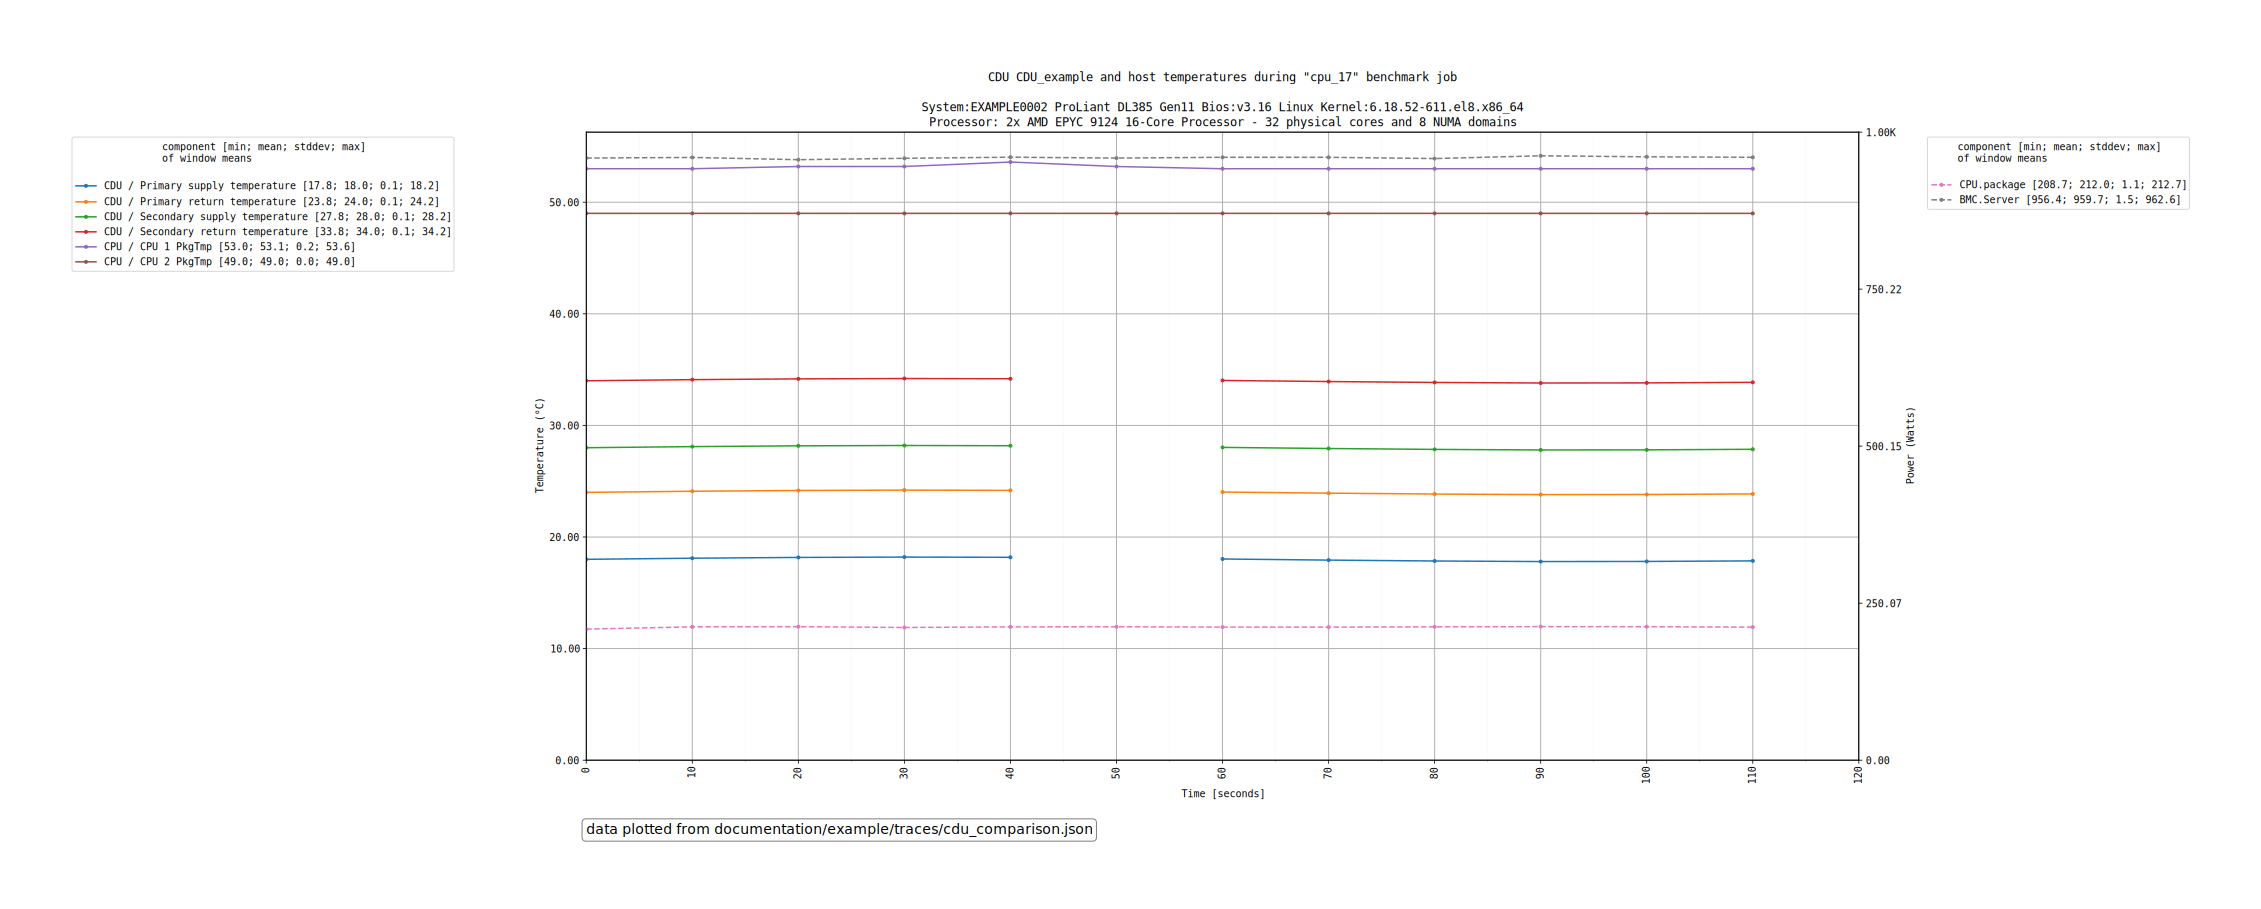
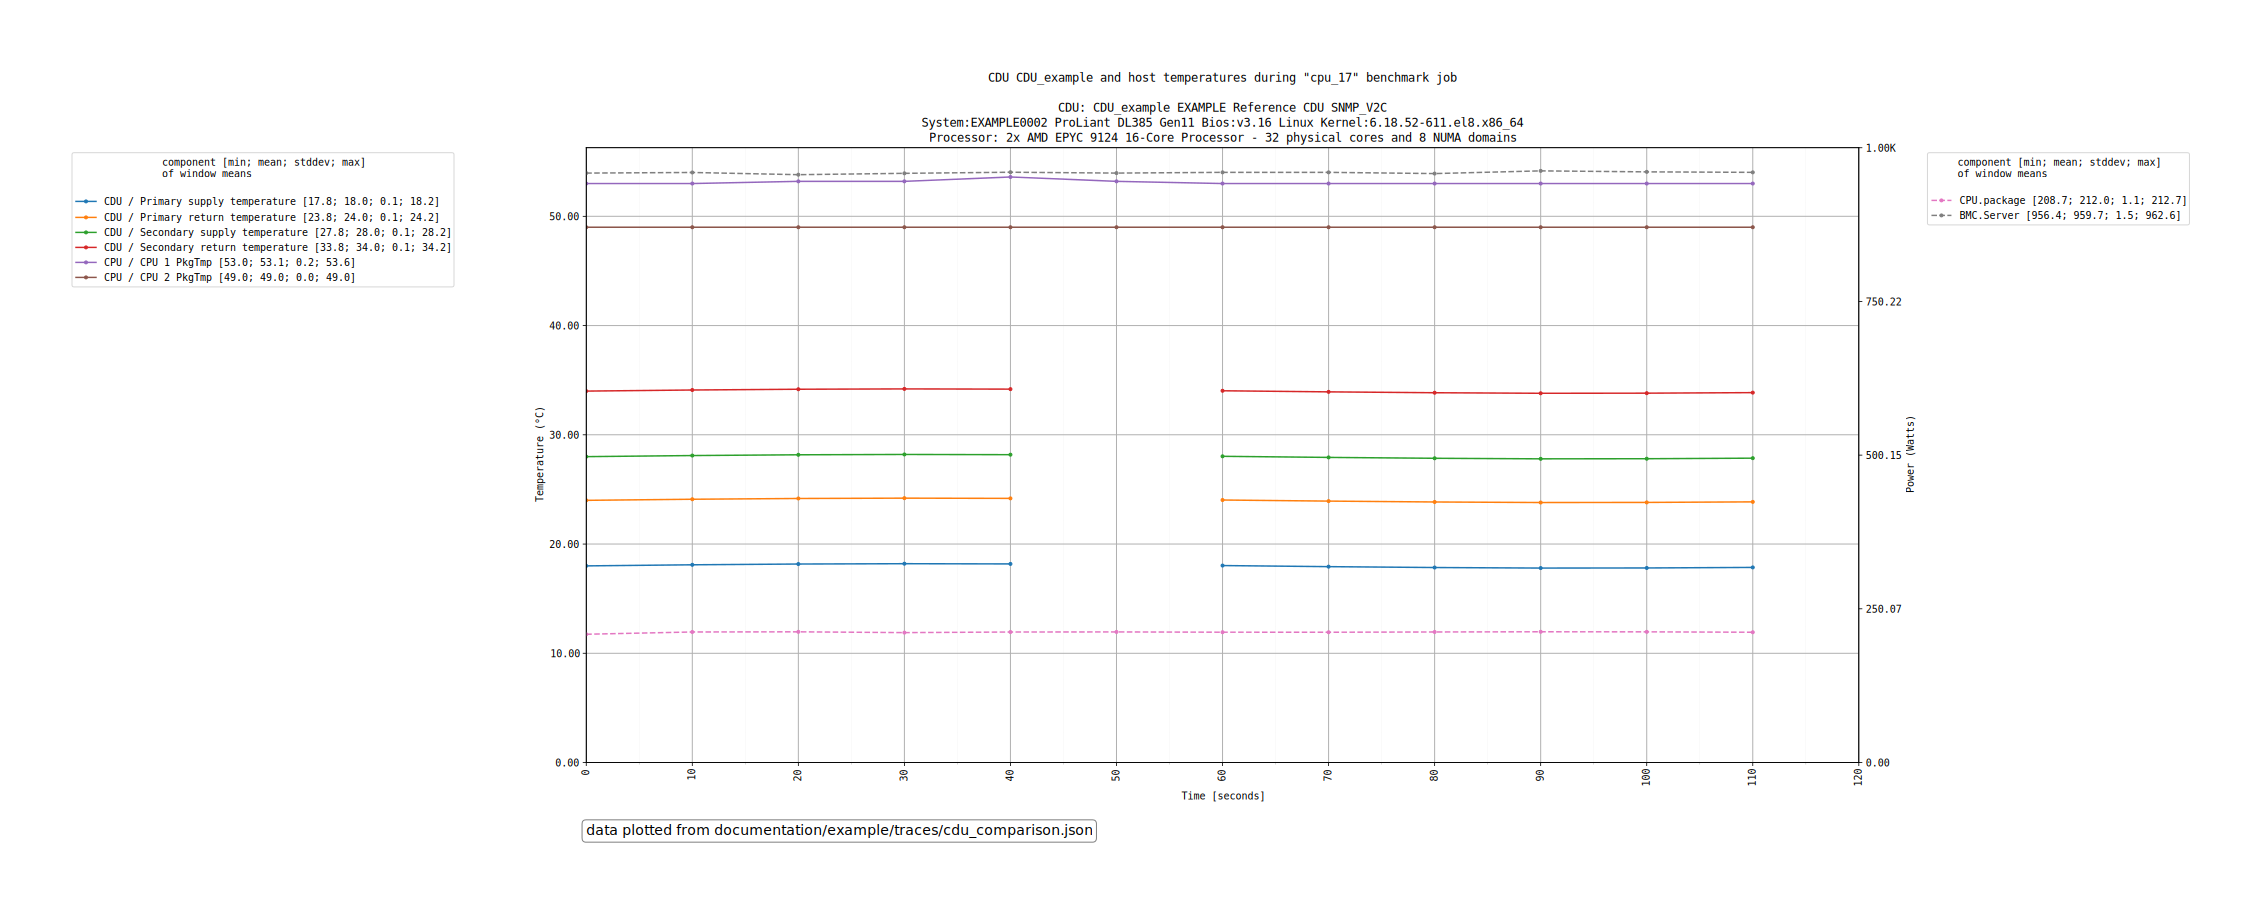
hwgraph: name the CDUs of the servers in the headers of the graphs
The graphs of a run monitoring CDUs do not tell which ones: the
results.json keeps their section, url, vendor, model and protocol in
hardware.cdu, but no header shows them.

A line per CDU gives its section, vendor, model and protocol, then its
firmware and its serial number when known, and its host between
parentheses:
  CDU: CDU_cooling HPE MCDU-4U-FR-2 SNMP_V2C SN:CZ1234 (cdu.example.net)
A header of a single server gives them before its System line, so that
they do not split the description of the host; a header of several
servers, under the location they share, when they were all monitored
with the same CDUs.

diff --git a/graph/trace.py b/graph/trace.py
@@ -6,6 +6,7 @@ import importlib
 import json
 import pathlib
 import tarfile
+import urllib.parse
 from enum import StrEnum
 from statistics import mean
 from typing import Any, Callable
@@ -413,7 +414,9 @@ class Bench:
         d = self.get_trace().get_dmi()
         c = self.get_trace().get_cpu()
         k = self.get_trace().get_kernel()
-        title = f"System:{d['serial']} {d['product']} Bios:v{d['bios']['version']} Linux Kernel:{k['release']}"
+        # The CDUs come first: between the System and the Processor lines, they would split the description of the host
+        title = "".join(f"CDU: {cdu}\n" for cdu in self.get_trace().get_cdu_lines())
+        title += f"System:{d['serial']} {d['product']} Bios:v{d['bios']['version']} Linux Kernel:{k['release']}"
         location = self.get_trace().get_location_line()
         if location:
             title += f"\nLocation: {location}"
@@ -751,6 +754,13 @@ def location_header_line(location: Location | None) -> str | None:
     return f"Location: {location.line()}" if location else None
 
 
+def shared_cdu_lines(traces: list) -> list[str]:
+    """The CDUs of the headers of the graphs of several servers: the ones of all the servers, when they
+    were all monitored with the same CDUs; none otherwise."""
+    lines = [trace.get_cdu_lines() for trace in traces]
+    return lines[0] if lines and lines[0] and all(line == lines[0] for line in lines) else []
+
+
 def shared_location_line(traces: list) -> str | None:
     """The line of the location in the headers of the graphs of several servers:
     the places they all share; None otherwise."""
@@ -872,6 +882,23 @@ class Trace:
         """The location of the server in one line, like hwbench prints it at startup; None without location."""
         location = self.get_location()
         return location.line() if location else None
+
+    def get_cdu_lines(self) -> list[str]:
+        """The CDUs monitored during the run, one line each: their section, vendor, model and protocol,
+        then their firmware and serial number when known, and their host between parentheses."""
+        lines = []
+        for name, cdu in (self.get_hardware().get("cdu") or {}).items():
+            # The host is the one of the url of the protocol driver, like snmp://cdu.example.net:161
+            host = urllib.parse.urlparse(cdu.get("url", "")).hostname
+            parts = [name, cdu.get("vendor"), cdu.get("model"), cdu.get("protocol")]
+            if cdu.get("firmware_version"):
+                parts.append(f"FW:{cdu['firmware_version']}")
+            if cdu.get("serial_number"):
+                parts.append(f"SN:{cdu['serial_number']}")
+            if host:
+                parts.append(f"({host})")
+            lines.append(" ".join(part for part in parts if part))
+        return lines
 
     def get_dmi(self):
         return self.get_hardware().get("dmi")

diff --git a/graph/test_trace.py b/graph/test_trace.py
@@ -4,13 +4,14 @@ from types import SimpleNamespace
 
 import pytest
 
-from graph.common import location_header
+from graph.common import cdu_header, location_header
 from graph.trace import (
     Bench,
     Trace,
     context_line,
     gpu_description,
     own_location,
+    shared_cdu_lines,
     shared_location,
     shared_location_line,
 )
@@ -254,3 +255,41 @@ def test_no_shared_location_line(other):
 def test_unknown_places_are_not_shared():
     """Places not known, shared by all the servers, are not a location."""
     assert shared_location_line([located_trace(at("", "", "A12")), located_trace(at("", "", "A13"))]) is None
+
+
+CDU = {"type": "CDU", "vendor": "HPE", "model": "MCDU-4U-FR-2", "protocol": "SNMP_V2C", "driver": "HPEMCDU4UFR2"}
+
+
+def cooled_trace(**cdus) -> Trace:
+    """A trace of a server monitored with these CDUs, by section."""
+    trace = located_trace(None)
+    trace.trace["hardware"]["cdu"] = cdus
+    return trace
+
+
+def test_cdu_lines():
+    """Each CDU gives its section, vendor, model and protocol, then its firmware and serial only when known."""
+    known = {"firmware_version": "2.1.2", "serial_number": "CZ1234", "url": "snmp://cdu.example.net:161"}
+    trace = cooled_trace(CDU_cooling=CDU, CDU_2=CDU | known)
+    assert trace.get_cdu_lines() == [
+        "CDU_cooling HPE MCDU-4U-FR-2 SNMP_V2C",
+        "CDU_2 HPE MCDU-4U-FR-2 SNMP_V2C FW:2.1.2 SN:CZ1234 (cdu.example.net)",
+    ]
+    # Before the System line, so that it does not split the description of the host
+    assert Bench(trace, "cpu_0").get_system_title().splitlines()[:3] == [
+        "CDU: CDU_cooling HPE MCDU-4U-FR-2 SNMP_V2C",
+        "CDU: CDU_2 HPE MCDU-4U-FR-2 SNMP_V2C FW:2.1.2 SN:CZ1234 (cdu.example.net)",
+        "System:SRV01 ProLiant DL385 Gen11 Bios:v3.16 Linux Kernel:6.18.52",
+    ]
+    assert located_trace(None).get_cdu_lines() == []
+    assert "CDU" not in Bench(located_trace(None), "cpu_0").get_system_title()
+
+
+def test_shared_cdu_lines():
+    """The servers monitored with the same CDUs give them in the header of their graphs, else nothing."""
+    cooled = [cooled_trace(CDU_cooling=CDU), cooled_trace(CDU_cooling=CDU)]
+    assert shared_cdu_lines(cooled) == ["CDU_cooling HPE MCDU-4U-FR-2 SNMP_V2C"]
+    assert cdu_header(SimpleNamespace(cdus=shared_cdu_lines(cooled))) == "\nCDU: CDU_cooling HPE MCDU-4U-FR-2 SNMP_V2C"
+    assert shared_cdu_lines([cooled[0], located_trace(None)]) == []
+    assert shared_cdu_lines([located_trace(None), located_trace(None)]) == []
+    assert cdu_header(SimpleNamespace()) == ""

diff --git a/graph/versus.py b/graph/versus.py
@@ -5,7 +5,7 @@ from typing import Any  # noqa: F401
 import matplotlib.pyplot as plt
 import numpy as np
 
-from graph.common import context_header, location_header
+from graph.common import cdu_header, context_header, location_header
 from graph.graph import GRAPH_TYPES, MAX_LEGEND_ITEMS, Graph
 from graph.scaling import _scaling_perf_value
 from graph.trace import GPU_SCALING_UNIT, gpu_description, own_location, shared_location
@@ -154,7 +154,7 @@ def max_versus_graph(args, output_dir, job: str, traces_name: list) -> int:
                 if graph_type != "cpu_clock":
                     max_perf_types.append(per_unit_type)
                 for max_perf_type in max_perf_types:
-                    title = f'{args.title}\n\n{graph_type_title} during "{job}" benchmark{context_header(args)}{location_header(args)}\n'
+                    title = f'{args.title}\n\n{graph_type_title} during "{job}" benchmark{context_header(args)}{location_header(args)}{cdu_header(args)}\n'
                     if max_perf_type == per_unit_type:
                         title += f"\nPer {unit_name} maximum performance during {bench.duration()} seconds"
                         y_max_per_unit = [0.0] * len(y_max[perf])
@@ -586,7 +586,7 @@ def _render_traces_comparison(
     sep = "  ".join("-" * widths[h] for h in headers)
 
     lines = [
-        f"Traces comparison (scaling){scope_title}{context_header(args)}{location_header(args)}",
+        f"Traces comparison (scaling){scope_title}{context_header(args)}{location_header(args)}{cdu_header(args)}",
         args.title,
         "",
         f"Reference : {ref_name}",
@@ -1135,9 +1135,7 @@ def render_versus_scorecard(args, output_dir) -> int:
             text = dfn(row[key]) + (f"\n{server}" if server else "")
             ax.text(j, i, text, ha="center", va="center", fontsize=9 if not server else 7)
 
-    title = (
-        f"{args.title}\n\nPerformance executive summary (vs {ref_name}){context_header(args)}{location_header(args)}\n"
-    )
+    title = f"{args.title}\n\nPerformance executive summary (vs {ref_name}){context_header(args)}{location_header(args)}{cdu_header(args)}\n"
     title += "green = better than reference, red = worse, neutral = same; * = reference"
     ax.set_title(title, fontsize=10)
     # Two side-by-side blocks below the graph: system descriptions on the left

diff --git a/graph/group.py b/graph/group.py
@@ -2,7 +2,7 @@ import math
 
 import numpy as np
 
-from graph.common import context_header, location_header
+from graph.common import cdu_header, context_header, location_header
 from graph.graph import MAX_LEGEND_ITEMS, Graph, draw_lines, get_max_value_string_length, statistics_in_label
 from hwbench.bench.monitoring_structs import MonitoringContextKeys, PowerCategories, PowerConsumptionContextKeys
 
@@ -45,7 +45,7 @@ def graph_sum_ratio(args, bench, bench_name, output_dir, time_serie, serie, base
     x_serie = np.array(time_serie)[order]
     graph = Graph(
         args,
-        f"{args.title}\n\nRatio of power consumption during {bench_name} benchmark{context_header(args)}{location_header(args)}\n\n{bench.title()}",
+        f"{args.title}\n\nRatio of power consumption during {bench_name} benchmark{context_header(args)}{location_header(args)}{cdu_header(args)}\n\n{bench.title()}",
         "Time [seconds]",
         "Percent of the whole server",
         output_dir,
@@ -75,7 +75,7 @@ def graph_sum_of_servers(args, bench, bench_name, output_dir, time_serie, serie,
     x_serie = np.array(time_serie)[order]
     graph = Graph(
         args,
-        f"{args.title}\n\nSum of servers power consumption during {bench_name} benchmark{context_header(args)}{location_header(args)}\n\n{bench.title()}",
+        f"{args.title}\n\nSum of servers power consumption during {bench_name} benchmark{context_header(args)}{location_header(args)}{cdu_header(args)}\n\n{bench.title()}",
         "Time [seconds]",
         "Watts",
         output_dir,
@@ -109,7 +109,7 @@ def graph_servers(args, bench, bench_name, output_dir, time_serie, serie, base_o
     x_serie = np.array(time_serie)[order]
     graph = Graph(
         args,
-        f"{args.title}\n\nServers power consumption during {bench_name} benchmark{context_header(args)}{location_header(args)}\n\n{bench.title()}",
+        f"{args.title}\n\nServers power consumption during {bench_name} benchmark{context_header(args)}{location_header(args)}{cdu_header(args)}\n\n{bench.title()}",
         "Time [seconds]",
         "Watts",
         output_dir,

diff --git a/graph/scaling.py b/graph/scaling.py
@@ -13,7 +13,7 @@ from matplotlib.offsetbox import AnchoredOffsetbox, HPacker, TextArea
 from matplotlib.patches import Patch
 from matplotlib.ticker import AutoMinorLocator, MultipleLocator
 
-from graph.common import context_header, location_header
+from graph.common import cdu_header, context_header, location_header
 from graph.graph import (
     GRAPH_TYPES,
     Graph,
@@ -105,7 +105,7 @@ def render_numa_delta_heatmaps(args, temp_outdir, job: str, emp: str) -> int:
                             # Signed delta: reference minus other.
                             matrix[row, col] = ref - oth
 
-                title = f'{args.title}\n\nPerformance scaling NUMA {dirname} delta via "{job}" benchmark job{context_header(args)}{location_header(args)}\n'
+                title = f'{args.title}\n\nPerformance scaling NUMA {dirname} delta via "{job}" benchmark job{context_header(args)}{location_header(args)}{cdu_header(args)}\n'
                 title += f"{unit} performance delta = ({reference.get_name()} (reference) - {other.get_name()})"
                 # Colour legend rendered as a caption below the graph (see below),
                 # with the "red" and "green" words drawn in their respective colour.
@@ -1213,7 +1213,7 @@ def performance_scaling_graph(args, output_dir, job: str, traces_name: list) -> 
                     if dir_suffix:
                         outdir = outdir.joinpath(dir_suffix)
 
-                    title = f'{args.title}\n\n{graph_type_title} via "{job}" benchmark job{context_header(args)}{location_header(args)}\n\n Stressor: '
+                    title = f'{args.title}\n\n{graph_type_title} via "{job}" benchmark job{context_header(args)}{location_header(args)}{cdu_header(args)}\n\n Stressor: '
                     title += f"{bench.get_title_engine_name()} for {bench.duration()} seconds"
                     scaling_unit = bench.scaling_unit()
                     xlabel = scaling_unit.axis_label

diff --git a/graph/hwgraph.py b/graph/hwgraph.py
@@ -47,6 +47,7 @@ try:
         Trace,
         context_line,
         location_header_line,
+        shared_cdu_lines,
         shared_location_line,
     )
     from graph.versus import (
@@ -129,6 +130,7 @@ def _task_group(bench_name, output_dir_str, trace_indexes=None, location=None):
         args.traces = [_pool_args.traces[index] for index in trace_indexes]
         group = LocationGroup(location, args.traces)
         args.location = f"{location_header_line(location)} ({len(args.traces)} servers)"
+        args.cdus = shared_cdu_lines(args.traces)
         args.place_name = group.place_name()
     return graph_group_env(args, bench_name, pathlib.Path(output_dir_str))
 
@@ -508,6 +510,10 @@ def render_trace_set(args: argparse.Namespace, output_dir: pathlib.Path):
     args.location = shared_location_line(args.traces) if len(args.traces) > 1 else None
     if args.location:
         print(args.location)
+    # So do the CDUs monitored with all the servers, under the location: see cdu_header()
+    args.cdus = shared_cdu_lines(args.traces) if len(args.traces) > 1 else []
+    for cdu in args.cdus:
+        print(f"CDU: {cdu}")
 
     compare_traces(args)
     generate_stats(args)

diff --git a/graph/chassis.py b/graph/chassis.py
@@ -4,7 +4,7 @@ from typing import cast
 
 import numpy as np
 
-from graph.common import context_header, location_header
+from graph.common import cdu_header, context_header, location_header
 from graph.graph import Graph, statistics_in_label
 from hwbench.bench.monitoring_structs import MonitoringContextKeys, PowerCategories, PowerConsumptionContextKeys
 
@@ -36,7 +36,7 @@ def graph_chassis(args, bench_name, output_dir) -> int:
     bench = args.traces[0].bench(bench_name)
     base_outfile = f"{bench_name} {bench.workers()}x{bench.engine()}_{bench.engine_module()}_{bench.engine_module_parameter()}_chassis"
     y_label = "Watts"
-    title = f"{args.title}\n\nChassis power consumption during {bench_name} benchmark{context_header(args)}{location_header(args)}\n\n{bench.title()}"
+    title = f"{args.title}\n\nChassis power consumption during {bench_name} benchmark{context_header(args)}{location_header(args)}{cdu_header(args)}\n\n{bench.title()}"
 
     def get_marker(category: PowerCategories | str) -> str:
         # Handle string input by converting to enum

diff --git a/graph/graph.py b/graph/graph.py
@@ -476,6 +476,7 @@ def numa_distance_heatmap(args, output_dir, trace) -> int:
     cpu = trace.get_cpu()
     dmi = trace.get_dmi()
     title = f"NUMA distances of {trace.get_name()}{context_header(args)}\n{args.title}\n\n"
+    title += "".join(f"CDU: {cdu}\n" for cdu in trace.get_cdu_lines())
     title += f"System: {dmi['serial']} {dmi['product']}"
     location = trace.get_location_line()
     if location:
@@ -614,6 +615,7 @@ def write_benchmarks_summary(args, output_dir, trace) -> int:
     cpu = trace.get_cpu()
     kernel = trace.get_kernel()
     info = [
+        *(("CDU", cdu) for cdu in trace.get_cdu_lines()),
         ("System", f"{dmi['serial']} {dmi['product']}"),
         *([("Location", location)] if (location := trace.get_location_line()) else []),
         ("Bios", f"v{dmi['bios']['version']}"),

diff --git a/graph/common.py b/graph/common.py
@@ -18,3 +18,9 @@ def location_header(args) -> str:
     """The line of the location shared by the servers, under the line of the contexts of a header
     of several servers, or nothing: a header of a single server gives its location under its serial."""
     return f"\n{args.location}" if getattr(args, "location", None) else ""
+
+
+def cdu_header(args) -> str:
+    """The lines of the CDUs shared by the servers, under the line of their location in a header of
+    several servers, or nothing: a header of a single server gives its CDUs under its serial."""
+    return "".join(f"\nCDU: {cdu}" for cdu in getattr(args, "cdus", None) or [])

diff --git a/documentation/hwgraph.md b/documentation/hwgraph.md
@@ -15,6 +15,7 @@ machines, or the runs of a same machine, with graphs and text reports.
   - [Comparing traces](#comparing-traces)
   - [Context of the runs](#context-of-the-runs)
   - [Location of the servers](#location-of-the-servers)
+  - [CDUs of the servers](#cdus-of-the-servers)
 - [Options](#options)
 - [Output tree](#output-tree)
 - [Graphs](#graphs)
@@ -325,6 +326,22 @@ servers, under the one of the context:
 Context: bios-v2
 Location: Country FR / Datacenter PA99 / Datahall 2 / Room 1 / Rack A12
 ```
+
+## CDUs of the servers
+A run monitoring [CDUs](monitoring.md#cdu) keeps them in `hardware.cdu` of `results.json`, and
+hwgraph gives each of them in the headers, a line per CDU: its section of the environment file,
+its vendor, its model and its protocol, then `FW:` its firmware and `SN:` its serial number,
+when they are known, the serial number coming from the `serial` key of its section, and its host
+between parentheses:
+
+```
+CDU: CDU_cooling HPE MCDU-4U-FR-2 SNMP_V2C SN:CZ1234 (cdu.example.net)
+```
+
+A header of a single server gives its CDUs before the `System` line, so that they do not split
+the description of the host, and
+a header of several servers, under the location they share, the CDUs they were all monitored
+with, only when they are the same for all of them. hwgraph prints them on the console too.
 
 # Options
 

diff --git a/documentation/monitoring.md b/documentation/monitoring.md
@@ -384,7 +384,7 @@ server vendor. Keep a BMC section and any PDU sections as usual.
 | `protocol` | protocol supported by the selected model | selects the shared communication protocol and applicable credentials |
 | `host` | hostname or IP address | the CDU's endpoint host |
 | `timeout` | finite positive seconds | request timeout; defaults to `2` |
-| `serial` | text | optional inventory metadata; no serial is inferred from the hostname |
+| `serial` | text | optional inventory metadata, shown by hwgraph in the [headers](hwgraph.md#cdus-of-the-servers); no serial is inferred from the hostname |
 
 Missing or unsupported vendor, model and protocol selections are rejected.
 There is no fallback to another model's metric definitions or an implicit
